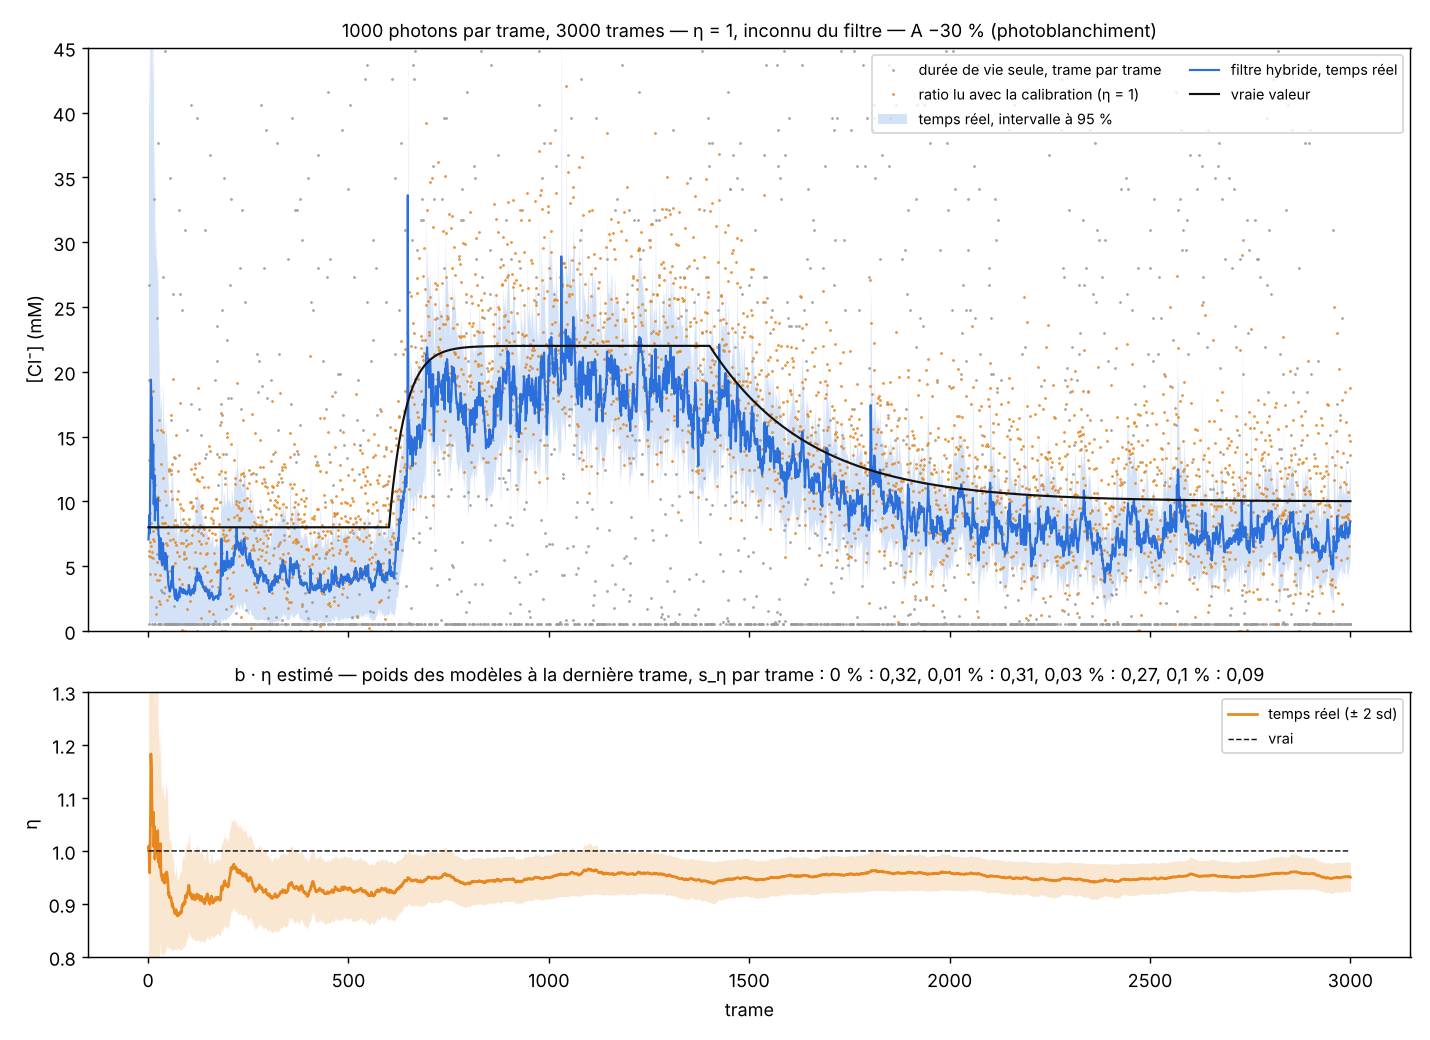
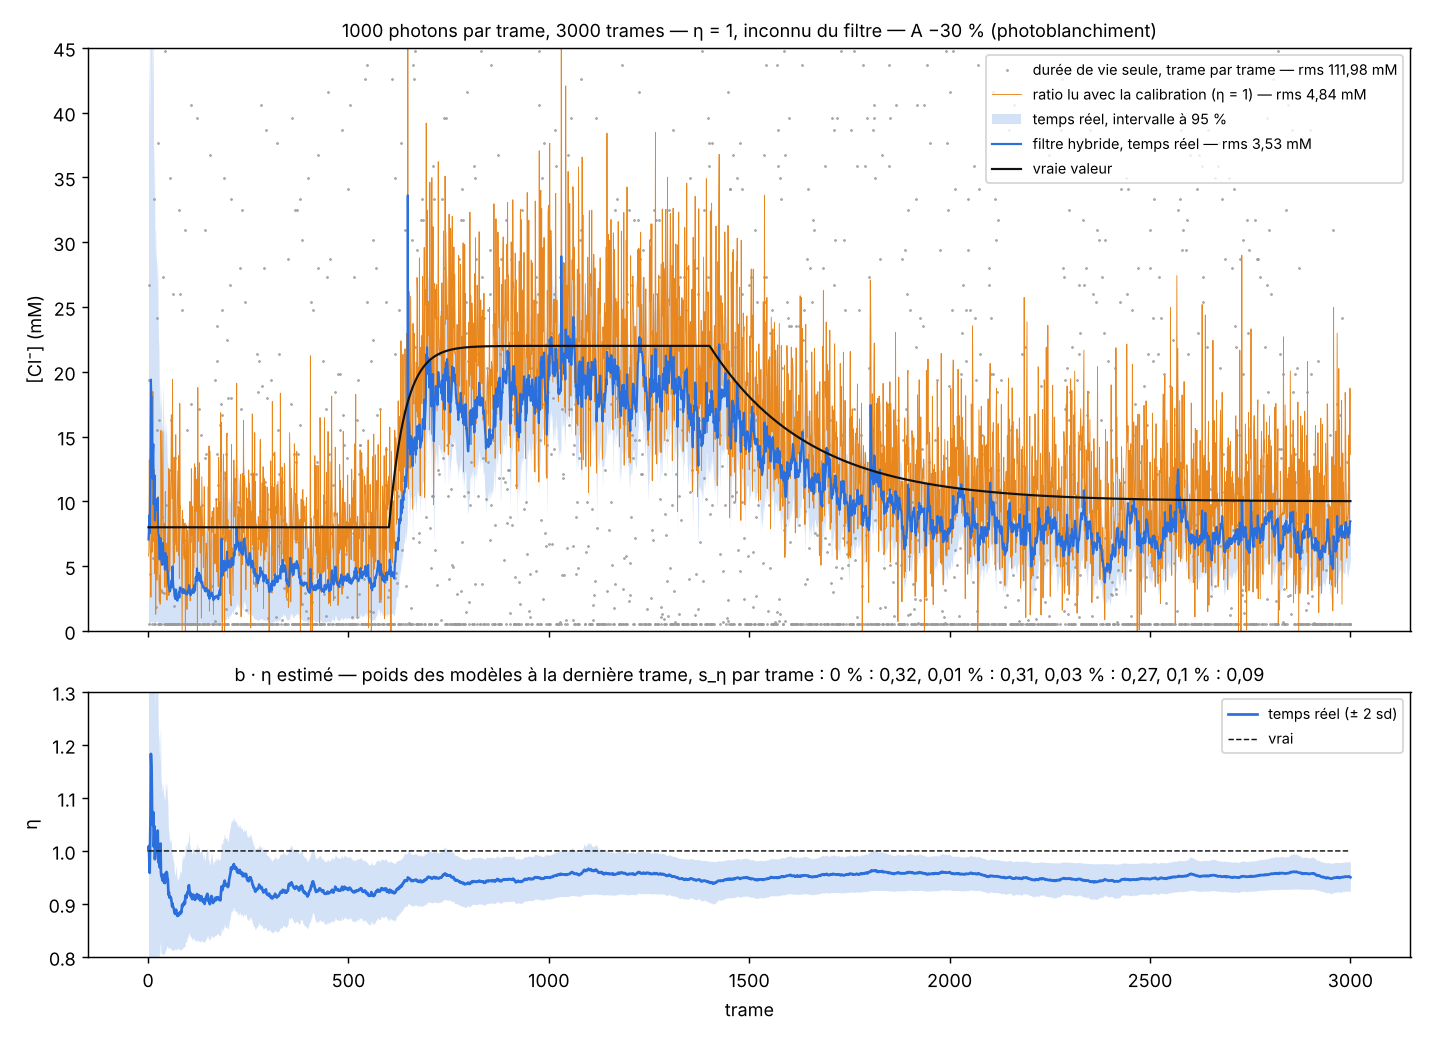
Figures de l'exemple : ratio en ligne, η en bleu, erreur rms dans la légende
figures.exemple : ratio en ligne pleine orange ; η temps réel de la couleur du
filtre temps réel du panneau du haut ; erreur rms de chaque lecture par rapport
à la vraie valeur dans la légende. exemples.py --figures redessine depuis les
tables par trame. Figures de run.py régénérées (mCer3 et SCLM, chiffres
inchangés).

Claude-Session: https://claude.ai/code/session_01U2xoFT143KTtzHRKKDNs8t

Changed region(s): [[0.0923, 0.1231, 0.9538, 0.6154], [0.0923, 0.6769, 0.9538, 0.9231], [0.6154, 0.0615, 0.9846, 0.1846]]

diff --git a/Simulateurs/bayesian_filter/src/figures.py b/Simulateurs/bayesian_filter/src/figures.py
@@ -46,26 +46,30 @@ def exemple(D, titre, chemin, eta_lim=(0.95, 1.6)):
     """
     Section 15 : panneau a, [Cl⁻] ; panneau b, η (le vrai η, constant ou non, est dans la colonne eta_vrai).
     Sans colonnes « lisse » (filtre temps réel seul), seul le filtre temps réel est tracé, avec son intervalle à 95 %.
+    Chaque lecture porte dans la légende son erreur rms par rapport à la vraie valeur, sur toute la course ; η a la
+    couleur de la courbe hybride correspondante.
     """
     fig, ax = plt.subplots(2, 1, figsize=(11, 8), sharex=True, gridspec_kw=dict(height_ratios=[2.2, 1]))
-    k = D.trame; ms = 3 if len(D) <= 500 else 1; lisse = 'c_lisse' in D
+    k = D.trame; ms = 3 if len(D) <= 500 else 1; lw = 1.0 if len(D) <= 500 else 0.5; lisse = 'c_lisse' in D
+    rms = lambda col: f" — rms {np.sqrt(np.mean((D[col] - D.c_vrai) ** 2)):.2f} mM".replace('.', ',')
     a = ax[0]
-    a.plot(k, np.clip(D.c_flim, 0, 80), '.', ms=ms, color=GRIS, label='durée de vie seule, trame par trame')
-    a.plot(k, D.c_ratio_eta1, '.', ms=ms, color=ORANGE, label='ratio lu avec la calibration (η = 1)')
+    a.plot(k, np.clip(D.c_flim, 0, 80), '.', ms=ms, color=GRIS, label='durée de vie seule, trame par trame' + rms('c_flim'))
+    a.plot(k, D.c_ratio_eta1, '-', lw=lw, color=ORANGE, label='ratio lu avec la calibration (η = 1)' + rms('c_ratio_eta1'))
     if lisse:
         a.fill_between(k, D.lisse_bas, D.lisse_haut, color=BLEU, alpha=0.2, lw=0, label='lissé, intervalle à 95 %')
-        a.plot(k, D.c_filtre, '-', lw=0.8, color=VERT, label='filtre hybride, temps réel')
-        a.plot(k, D.c_lisse, '-', lw=1.4, color=BLEU, label='filtre hybride, lissé')
+        a.plot(k, D.c_filtre, '-', lw=0.8, color=VERT, label='filtre hybride, temps réel' + rms('c_filtre'))
+        a.plot(k, D.c_lisse, '-', lw=1.4, color=BLEU, label='filtre hybride, lissé' + rms('c_lisse'))
     else:
         a.fill_between(k, D.filtre_bas, D.filtre_haut, color=BLEU, alpha=0.2, lw=0, label='temps réel, intervalle à 95 %')
-        a.plot(k, D.c_filtre, '-', lw=1.2, color=BLEU, label='filtre hybride, temps réel')
+        a.plot(k, D.c_filtre, '-', lw=1.2, color=BLEU, label='filtre hybride, temps réel' + rms('c_filtre'))
     a.plot(k, D.c_vrai, '-', lw=1.2, color=NOIR, label='vraie valeur')
-    a.set_ylim(0, 45); a.set_ylabel('[Cl⁻] (mM)'); a.legend(fontsize=8, ncol=2, loc='upper right')
+    a.set_ylim(0, 45); a.set_ylabel('[Cl⁻] (mM)'); a.legend(fontsize=8, ncol=1, loc='upper right')
     a.set_title(titre, fontsize=10)
     b = ax[1]
+    c_tr = VERT if lisse else BLEU                       # η temps réel : la couleur du filtre temps réel du panneau a
     b.fill_between(k, D.eta_filtre * np.exp(-2 * D.eta_filtre_sd), D.eta_filtre * np.exp(2 * D.eta_filtre_sd),
-                   color=ORANGE, alpha=0.2, lw=0)
-    b.plot(k, D.eta_filtre, color=ORANGE, label='temps réel (± 2 sd)')
+                   color=c_tr, alpha=0.2, lw=0)
+    b.plot(k, D.eta_filtre, color=c_tr, label='temps réel (± 2 sd)')
     if lisse:
         b.plot(k, D.eta_lisse, color=BLEU, label='après coup')
     b.plot(k, D.eta_vrai, color=NOIR, lw=0.8, ls='--', label='vrai')

diff --git a/Simulateurs/bayesian_filter/exemples.py b/Simulateurs/bayesian_filter/exemples.py
@@ -10,7 +10,9 @@ s_eta_candidats (0 = η constant) sont moyennés selon leur vraisemblance margin
 Sorties dans sorties_exemples/ : fig_exemple_<scénario>_<photons>.png (les deux panneaux de fig_exemple.png),
 exemple_<scénario>_<photons>.csv.gz (la table par trame), resume.csv, fig_resume.png, journal.txt.
 
-Lancer depuis ce dossier :  python3 exemples.py  [--rapide]      (~15 min ; --rapide : 300 trames, 2 nombres de photons)
+Avec --figures : redessine les figures à partir des tables par trame déjà écrites, sans refaire les courses.
+
+Lancer depuis ce dossier :  python3 exemples.py  [--rapide | --figures]      (~15 min ; --rapide : 300 trames, 2 nombres de photons)
 """
 import os, sys, time
 import numpy as np
@@ -24,6 +26,7 @@ from src.exemple import METHODES_EXEMPLE, course_exemple, bilan_exemple, etirer
 from src import figures
 
 RAPIDE = '--rapide' in sys.argv
+FIGURES = '--figures' in sys.argv
 JOURNAL = []
 
 
@@ -31,9 +34,28 @@ def dire(*a):
     s = ' '.join(str(x) for x in a); print(s); JOURNAL.append(s)
 
 
+def titre_figure(N, T, sc):
+    return f"{N} photons par trame, {T} trames — {sc['titre']}, inconnu du filtre — A −30 % (photoblanchiment)"
+
+
+def redessiner(p):
+    """Les figures seules, depuis exemple_<scénario>_<photons>.csv.gz (poids des modèles : colonnes poids_filtre_s_eta_*)."""
+    q = p['exemples']; sortie = os.path.join(ICI, q['sorties'])
+    for sc in q['scenarios']:
+        for N in q['photons']:
+            nom = f"{sc['nom']}_{N}"
+            D = pd.read_csv(os.path.join(sortie, f'exemple_{nom}.csv.gz'))
+            cols = [c for c in D.columns if c.startswith('poids_filtre_s_eta_')]
+            D.attrs['poids_filtre_final'] = {float(c[len('poids_filtre_s_eta_'):]): D[c].iloc[-1] for c in cols}
+            figures.exemple(D, titre_figure(N, len(D), sc), os.path.join(sortie, f'fig_exemple_{nom}.png'), eta_lim=(0.8, 1.3))
+            print(f"fig_exemple_{nom}.png")
+
+
 def main():
     t0 = time.time()
     p = charger_params(); q, f = p['exemples'], p['filtre']
+    if FIGURES:
+        return redessiner(p)
     sortie = os.path.join(ICI, q['sorties']); os.makedirs(sortie, exist_ok=True)
     S = Senseur(charger_calibration(p))
     g = Grille(S, grille_c(f), grille_eta(f))
@@ -51,8 +73,7 @@ def main():
             D, _, duree = course_exemple(S, g, f, e, np.random.default_rng(q['graine'] + 100 * i + j), eta, lisser=False)
             nom = f"{sc['nom']}_{N}"
             D.to_csv(os.path.join(sortie, f'exemple_{nom}.csv.gz'), index=False, float_format='%.6g')
-            figures.exemple(D, f"{N} photons par trame, {T} trames — {sc['titre']}, inconnu du filtre — A −30 % (photoblanchiment)",
-                            os.path.join(sortie, f'fig_exemple_{nom}.png'), eta_lim=(0.8, 1.3))
+            figures.exemple(D, titre_figure(N, T, sc), os.path.join(sortie, f'fig_exemple_{nom}.png'), eta_lim=(0.8, 1.3))
             b = bilan_exemple(D)
             fin = slice(T - T // 10, T)                          # le dernier dixième : η appris, c sur son plateau final
             b.update(scenario=sc['nom'], photons=N, trames=T,

diff --git a/Simulateurs/bayesian_filter/README.md b/Simulateurs/bayesian_filter/README.md
@@ -298,9 +298,21 @@ Médiane de |écart| (mM), ratio / hybride :
 A −30 %) sur **3 000 trames** au lieu de 300, même forme de courbe (montée à la trame 601, τ 40 trames ; descente à
 1 401, τ 250), pour 1 000, 3 000, 10 000, 30 000 et 100 000 photons par trame et trois η vrais, inconnus du filtre :
 1, 1,1, et une dérive linéaire de 1 à 1,1 de la première à la dernière trame. **Filtre temps réel seulement** (aucun
-lissage) : une figure par cas (`fig_exemple_<scénario>_<photons>.png` ; ratio en points, filtre et son intervalle à
-95 %, η en temps réel ± 2 sd et poids des modèles de dynamique à la dernière trame), la table par trame
-(`exemple_<scénario>_<photons>.csv.gz`), `resume.csv`, `fig_resume.png`, `journal.txt`.
+lissage) : une figure par cas (`fig_exemple_<scénario>_<photons>.png` ; ratio en ligne orange, filtre et son intervalle
+à 95 % en bleu, erreur rms de chaque lecture dans la légende ; η en temps réel ± 2 sd, en bleu, et poids des modèles de
+dynamique à la dernière trame), la table par trame (`exemple_<scénario>_<photons>.csv.gz`), `resume.csv`,
+`fig_resume.png`, `journal.txt`. `python3 exemples.py --figures` redessine les figures depuis les tables, sans refaire
+les courses.
+
+Erreur rms sur toute la course (mM), durée de vie seule / ratio lu à η = 1 / filtre hybride temps réel :
+
+| photons par trame | η = 1 | η = 1,1 | η dérive de 1 à 1,1 |
+| --- | --- | --- | --- |
+| 1 000 | 112 / 4,84 / 3,53 | 115 / 6,74 / 2,49 | 110 / 5,32 / 4,83 |
+| 3 000 | 57,2 / 2,85 / 1,88 | 64,4 / 6,01 / 1,16 | 64,8 / 4,03 / 2,36 |
+| 10 000 | 17,2 / 1,53 / 0,76 | 20,8 / 5,65 / 1,02 | 20,2 / 3,47 / 1,49 |
+| 30 000 | 7,94 / 0,90 / 0,58 | 8,60 / 5,60 / 0,60 | 8,06 / 3,25 / 1,07 |
+| 100 000 | 4,10 / 0,49 / 0,38 | 4,26 / 5,55 / 0,45 | 4,07 / 3,17 / 0,56 |
 
 ### η qui dérive
 
